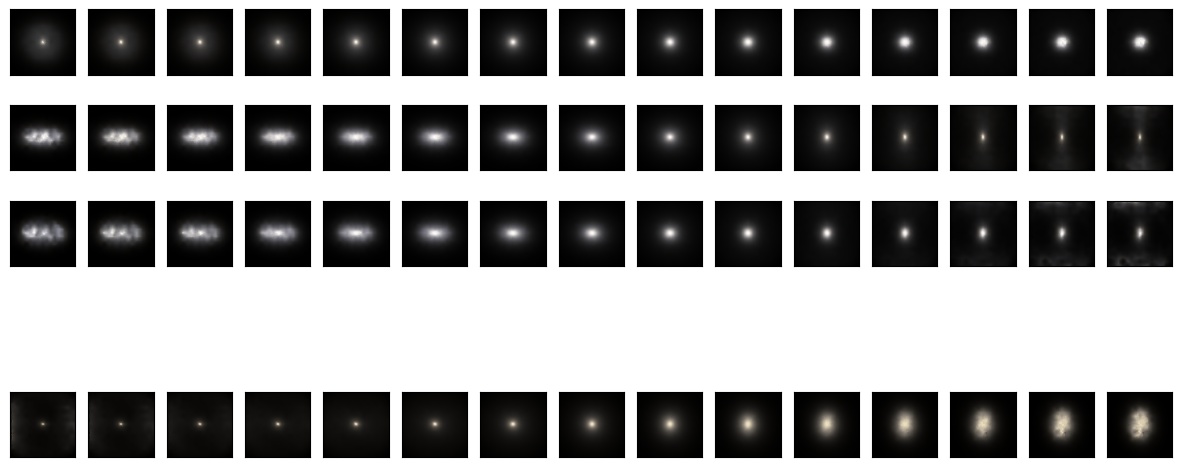
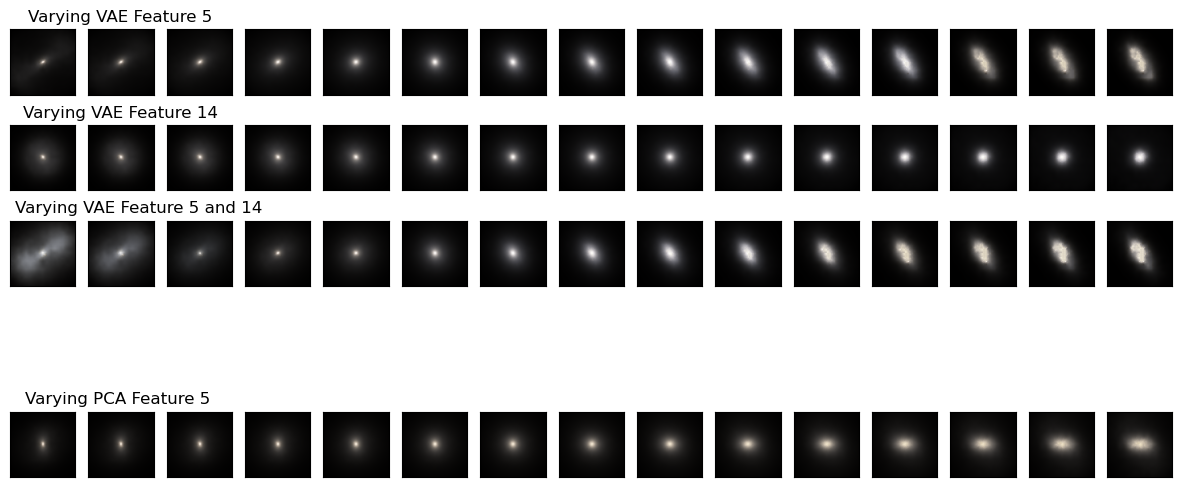
Code

diff --git a/comparison-extracted_features.py b/comparison-extracted_features.py
@@ -18,7 +18,7 @@ pd.set_option('display.width', 500)
 
 
 encoding_dim = 15
-run = 3
+run = 1
 
 # load the extracted features
 extracted_features = np.load("Variational Eagle/Extracted Features/Normalised Individually/" + str(encoding_dim) + "_feature_300_epoch_features_" + str(run) + ".npy")[0]
@@ -62,9 +62,9 @@ extracted_features_switch = extracted_features.T
 
 
 # perform pca on the extracted features
-# pca = PCA(n_components=12).fit(extracted_features)
-# extracted_features = pca.transform(extracted_features)
-# extracted_features_switch = extracted_features.T
+pca = PCA(n_components=11).fit(extracted_features)
+extracted_features = pca.transform(extracted_features)
+extracted_features_switch = extracted_features.T
 
 
 
@@ -284,7 +284,7 @@ wrap_labels(ax, 10)
 
 
 
-plt.savefig("Variational Eagle/Correlation Plots/individually_normalised_" + str(encoding_dim) + "_feature_vae_all_property_correlation_" + str(run), bbox_inches='tight')
+plt.savefig("Variational Eagle/Correlation Plots/individually_normalised_" + str(encoding_dim) + "_feature_vae_pca_all_property_correlation_" + str(run), bbox_inches='tight')
 plt.show()
 
 
@@ -333,7 +333,7 @@ for i, property in enumerate(properties):
         axs[feature][i].set_ylabel(None)
         axs[feature][i].tick_params(labelsize=12)
 
-plt.savefig("Variational Eagle/Correlation Plots/scatter_individually_normalised_" + str(encoding_dim) + "_feature_vae_all_property_correlation_" + str(run), bbox_inches='tight')
+plt.savefig("Variational Eagle/Correlation Plots/scatter_individually_normalised_" + str(encoding_dim) + "_feature_vae_pca_all_property_correlation_" + str(run), bbox_inches='tight')
 # plt.savefig("Variational Eagle/Correlation Plots/scatter_" + str(encoding_dim) + "_feature_all_property_correlation_p2", bbox_inches='tight')
 plt.show()
 

diff --git a/transition_plot.py b/transition_plot.py
@@ -1,7 +1,4 @@
 import os
-
-from matplotlib.pyplot import figure
-
 os.environ["KERAS_BACKEND"] = "tensorflow"
 import tensorflow as tf
 import keras
@@ -168,11 +165,11 @@ vae.load_weights("Variational Eagle/Weights/Normalised Individually/" + str(enco
 num_varying_features = 15
 
 # chosen extracted feature to vary
-chosen_feature = 8
-chosen_feature_2 = 10
+chosen_feature = 5
+chosen_feature_2 = 14
 
 # chosen pca feature to vary
-chosen_pca_feature = 1
+chosen_pca_feature = 5
 
 
 
@@ -271,7 +268,7 @@ for i in range(num_varying_features):
 
 axs[0,2].set_title("Varying VAE Feature " + str(chosen_feature) + "                              ")
 axs[1,2].set_title("Varying VAE Feature " + str(chosen_feature_2) + "                              ")
-axs[2,2].set_title("Varying VAE Feature " + str(chosen_feature) + " and " str(chosen_feature_2) + "                       ")
+axs[2,2].set_title("Varying VAE Feature " + str(chosen_feature) + " and " + str(chosen_feature_2) + "                       ")
 axs[4,2].set_title("Varying PCA Feature " + str(chosen_pca_feature) + "                               ")
 
 

diff --git a/pca.py b/pca.py
@@ -8,7 +8,7 @@ np.set_printoptions(linewidth=np.inf)
 
 encoding_dim = 15
 
-extracted_features = np.load("Variational Eagle/Extracted Features/Normalised Individually/" + str(encoding_dim) + "_feature_300_epoch_features_3.npy")[0]
+extracted_features = np.load("Variational Eagle/Extracted Features/Normalised Individually/" + str(encoding_dim) + "_feature_300_epoch_features_1.npy")[0]
 
 print(extracted_features.shape)
 
